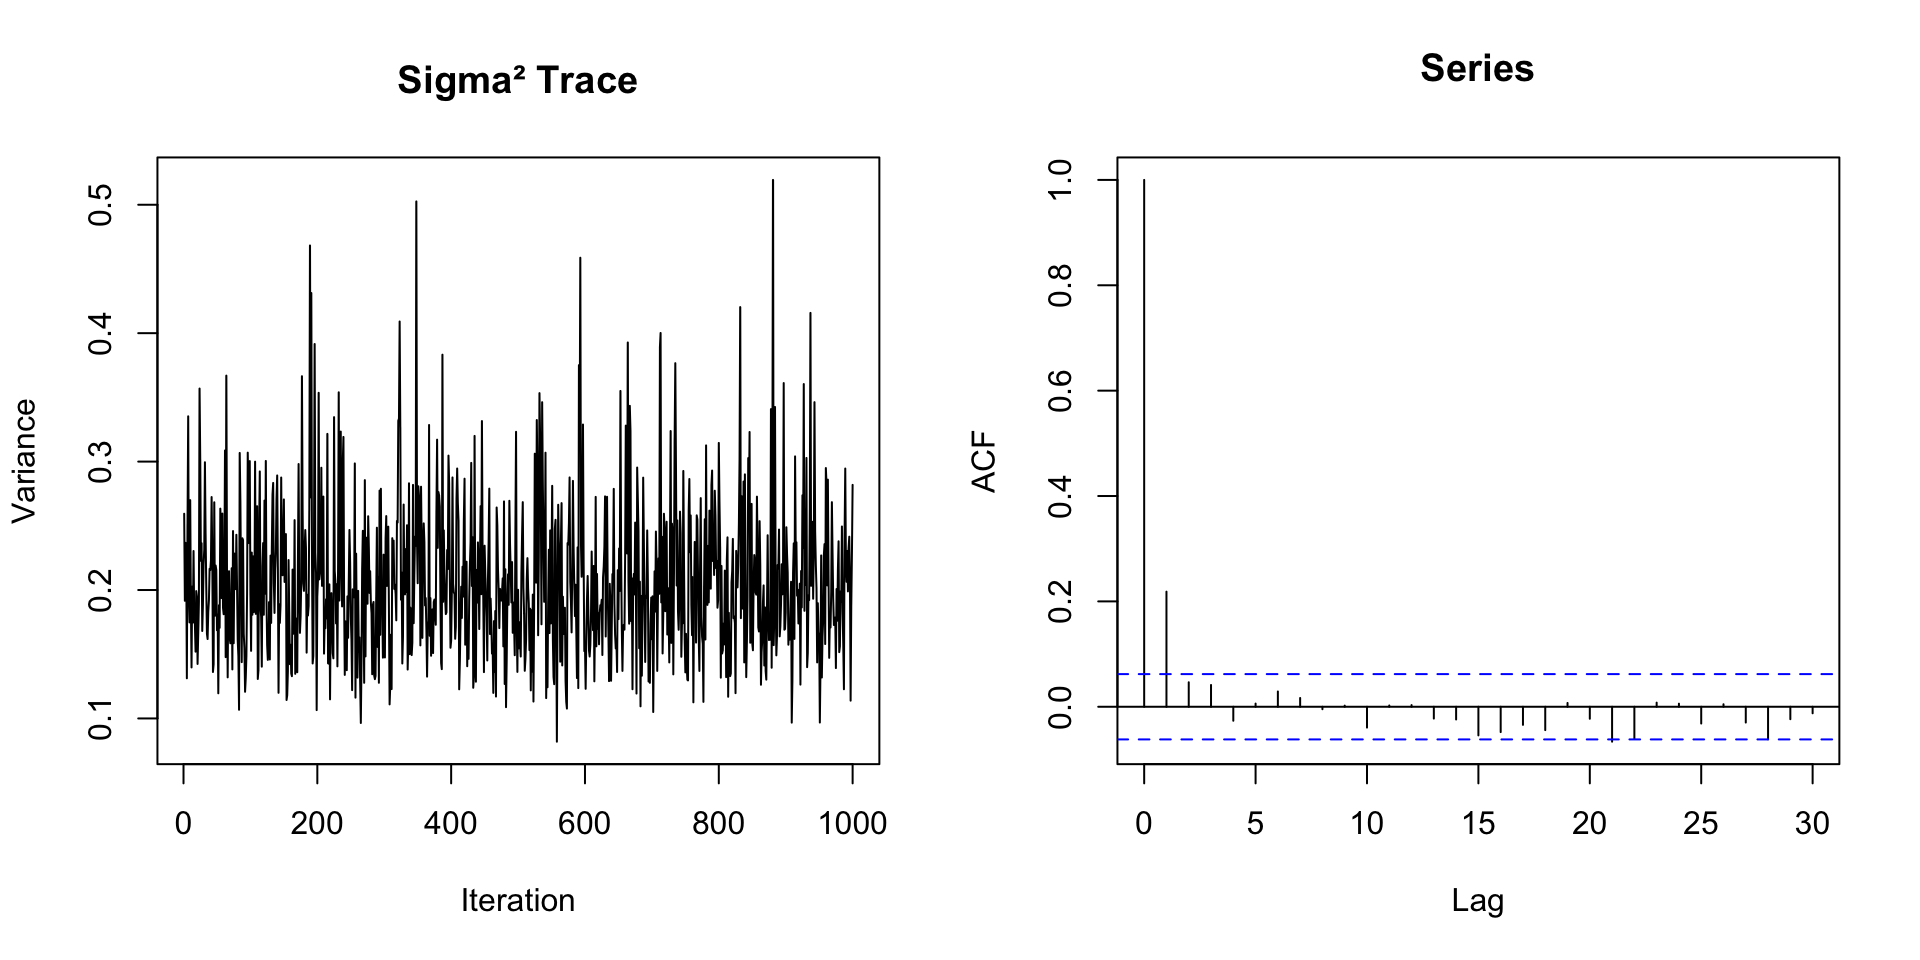
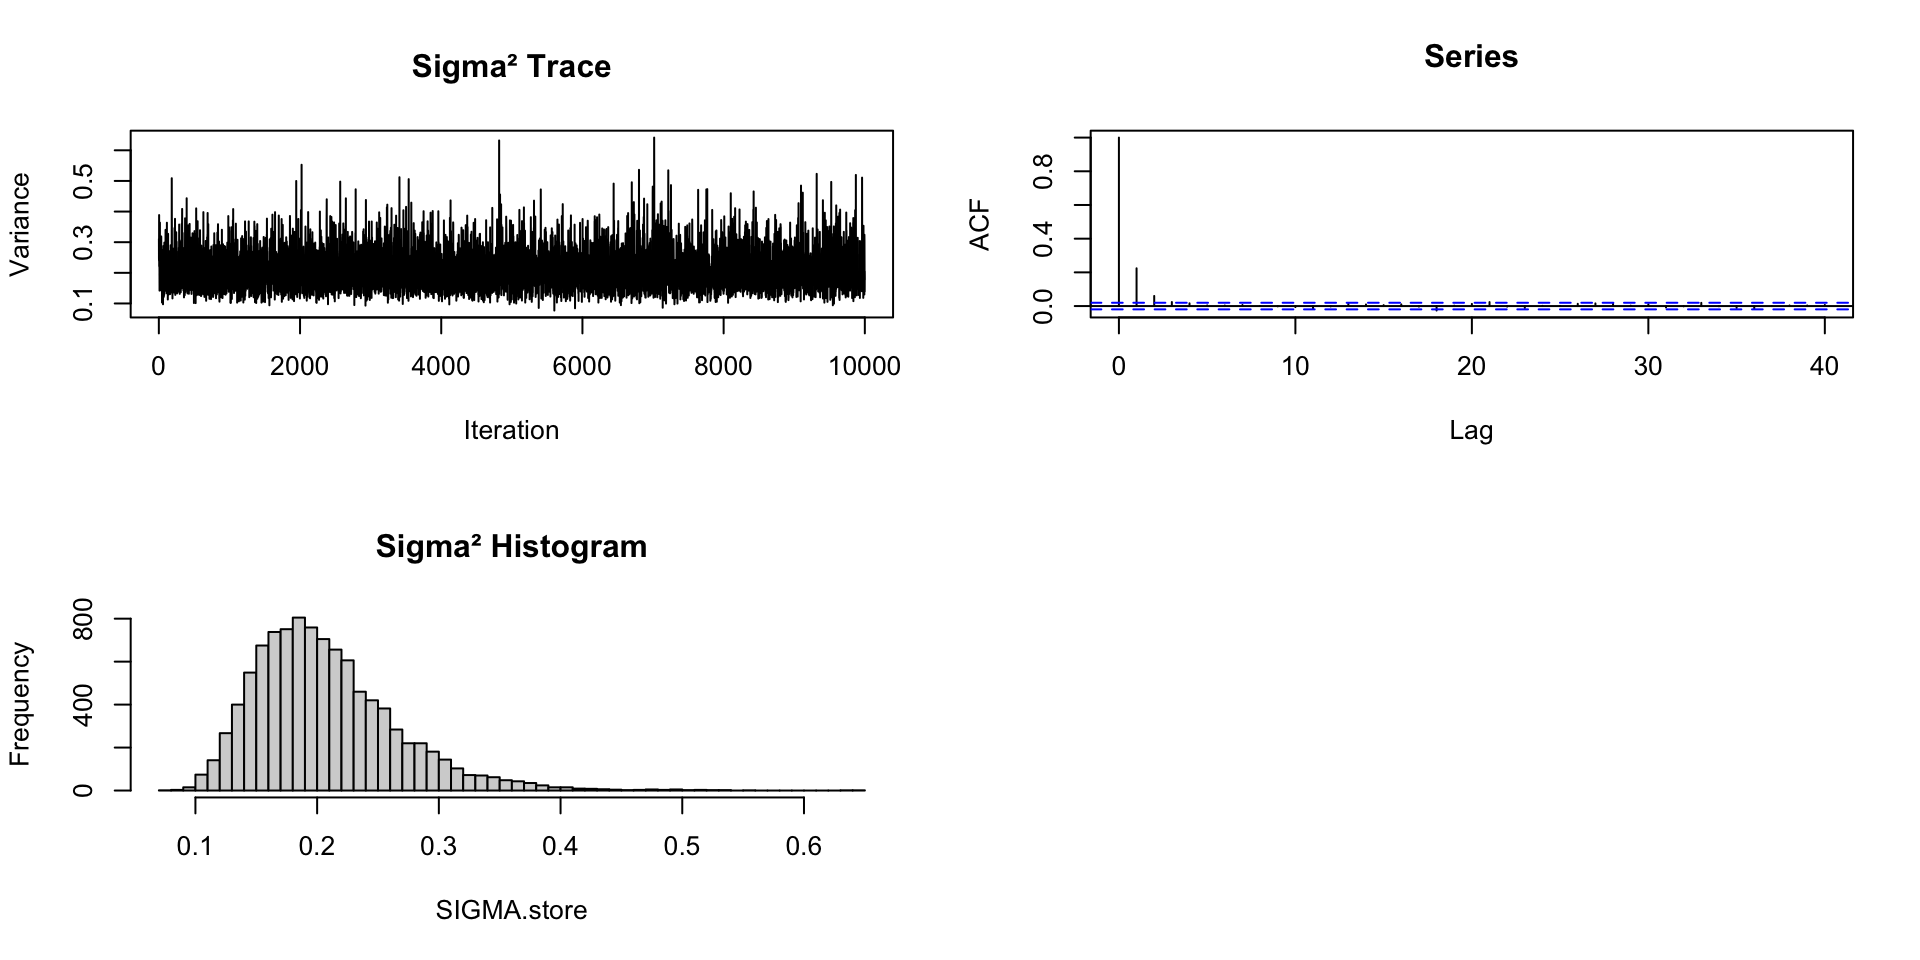
end term presentation update

diff --git a/EndTermPresentation.html b/EndTermPresentation.html
@@ -555,8 +555,8 @@ F-statistic: 22.27 on 8 and 29 DF,  p-value: 2.033e-10</code></pre>
 <h2>Preconditions</h2>
 <p>We simply took those from the original script:</p>
 <div class="cell">
-<div class="sourceCode cell-code" id="cb11"><pre class="sourceCode numberSource r number-lines code-with-copy"><code class="sourceCode r"><span id="cb11-1"><a href=""></a>nsave <span class="ot">&lt;-</span> <span class="dv">1000</span></span>
-<span id="cb11-2"><a href=""></a>nburn <span class="ot">&lt;-</span> <span class="dv">1000</span></span>
+<div class="sourceCode cell-code" id="cb11"><pre class="sourceCode numberSource r number-lines code-with-copy"><code class="sourceCode r"><span id="cb11-1"><a href=""></a>nsave <span class="ot">&lt;-</span> <span class="dv">10000</span></span>
+<span id="cb11-2"><a href=""></a>nburn <span class="ot">&lt;-</span> <span class="dv">2000</span></span>
 <span id="cb11-3"><a href=""></a>ntot  <span class="ot">&lt;-</span> nsave <span class="sc">+</span> nburn        <span class="co"># total Gibbs draws</span></span>
 <span id="cb11-4"><a href=""></a></span>
 <span id="cb11-5"><a href=""></a>tau0 <span class="ot">&lt;-</span> <span class="fl">0.01</span>                  <span class="co"># SSVS hyper-pars</span></span>
@@ -674,15 +674,15 @@ F-statistic: 22.27 on 8 and 29 DF,  p-value: 2.033e-10</code></pre>
 <div class="cell">
 <div class="cell-output cell-output-stdout">
 <pre><code>    Variable   PIP PostMean
-5 MalariaInc 1.000    0.827
-9      Urban 0.171   -0.142
-6    Density 0.160   -0.161
-2        GDP 0.105   -0.112
-4      Pop65 0.074    0.105
-8  TB_Deaths 0.042    0.045
-7    TB_Mort 0.037    0.009
-3     Health 0.033    0.005
-1  Intercept 0.029    0.001</code></pre>
+5 MalariaInc 1.000    0.824
+6    Density 0.206   -0.166
+9      Urban 0.172   -0.147
+2        GDP 0.107   -0.112
+4      Pop65 0.091    0.109
+8  TB_Deaths 0.044    0.043
+3     Health 0.043    0.008
+7    TB_Mort 0.043    0.011
+1  Intercept 0.037    0.000</code></pre>
 </div>
 </div>
 </section>
@@ -694,27 +694,27 @@ F-statistic: 22.27 on 8 and 29 DF,  p-value: 2.033e-10</code></pre>
 <h2>Summary Alpha</h2>
 <div class="cell">
 <div class="cell-output cell-output-stdout">
-<pre><code>   Intercept              GDP              Health              Pop65         
- Min.   :-0.185786   Min.   :-0.4050   Min.   :-0.217391   Min.   :-0.10783  
- 1st Qu.:-0.037034   1st Qu.:-0.1583   1st Qu.:-0.042756   1st Qu.: 0.05936  
- Median : 0.002013   Median :-0.1121   Median : 0.004108   Median : 0.10598  
- Mean   : 0.001464   Mean   :-0.1118   Mean   : 0.005295   Mean   : 0.10496  
- 3rd Qu.: 0.040423   3rd Qu.:-0.0624   3rd Qu.: 0.053921   3rd Qu.: 0.14839  
- Max.   : 0.173586   Max.   : 0.1505   Max.   : 0.228271   Max.   : 0.37525  
-   MalariaInc        Density            TB_Mort            TB_Deaths        
- Min.   :0.5527   Min.   :-0.45248   Min.   :-0.207055   Min.   :-0.174479  
- 1st Qu.:0.7749   1st Qu.:-0.20817   1st Qu.:-0.037702   1st Qu.: 0.003152  
- Median :0.8263   Median :-0.15914   Median : 0.007834   Median : 0.042247  
- Mean   :0.8268   Mean   :-0.16069   Mean   : 0.009035   Mean   : 0.044523  
- 3rd Qu.:0.8818   3rd Qu.:-0.10826   3rd Qu.: 0.055614   3rd Qu.: 0.086215  
- Max.   :1.0983   Max.   : 0.09524   Max.   : 0.214924   Max.   : 0.261957  
+<pre><code>   Intercept               GDP               Health              Pop65        
+ Min.   :-0.2228527   Min.   :-0.55448   Min.   :-0.290115   Min.   :-0.1504  
+ 1st Qu.:-0.0391020   1st Qu.:-0.16073   1st Qu.:-0.039970   1st Qu.: 0.0622  
+ Median : 0.0001859   Median :-0.10903   Median : 0.007789   Median : 0.1079  
+ Mean   : 0.0001285   Mean   :-0.11234   Mean   : 0.008054   Mean   : 0.1088  
+ 3rd Qu.: 0.0390459   3rd Qu.:-0.05937   3rd Qu.: 0.056455   3rd Qu.: 0.1541  
+ Max.   : 0.2401192   Max.   : 0.17068   Max.   : 0.368216   Max.   : 0.4184  
+   MalariaInc        Density           TB_Mort           TB_Deaths        
+ Min.   :0.5202   Min.   :-0.5608   Min.   :-0.23685   Min.   :-0.205681  
+ 1st Qu.:0.7715   1st Qu.:-0.2147   1st Qu.:-0.03404   1st Qu.: 0.001402  
+ Median :0.8231   Median :-0.1605   Median : 0.01104   Median : 0.042171  
+ Mean   :0.8237   Mean   :-0.1659   Mean   : 0.01123   Mean   : 0.042603  
+ 3rd Qu.:0.8773   3rd Qu.:-0.1095   3rd Qu.: 0.05705   3rd Qu.: 0.083865  
+ Max.   :1.1117   Max.   : 0.1860   Max.   : 0.26798   Max.   : 0.353189  
      Urban         
- Min.   :-0.43749  
- 1st Qu.:-0.19470  
- Median :-0.13849  
- Mean   :-0.14171  
- 3rd Qu.:-0.08411  
- Max.   : 0.11941  </code></pre>
+ Min.   :-0.56686  
+ 1st Qu.:-0.19647  
+ Median :-0.14123  
+ Mean   :-0.14681  
+ 3rd Qu.:-0.08898  
+ Max.   : 0.17247  </code></pre>
 </div>
 </div>
 </section>
@@ -722,13 +722,13 @@ F-statistic: 22.27 on 8 and 29 DF,  p-value: 2.033e-10</code></pre>
 <h2>Summary Sigma</h2>
 <div class="cell">
 <div class="cell-output cell-output-stdout">
-<pre><code>     Sigma       
- Min.   :0.0819  
- 1st Qu.:0.1658  
- Median :0.1968  
- Mean   :0.2064  
- 3rd Qu.:0.2361  
- Max.   :0.5193  </code></pre>
+<pre><code>     Sigma        
+ Min.   :0.07692  
+ 1st Qu.:0.16515  
+ Median :0.19752  
+ Mean   :0.20675  
+ 3rd Qu.:0.23760  
+ Max.   :0.64148  </code></pre>
 </div>
 </div>
 </section>
@@ -736,20 +736,27 @@ F-statistic: 22.27 on 8 and 29 DF,  p-value: 2.033e-10</code></pre>
 <h2>Summary Gamma</h2>
 <div class="cell">
 <div class="cell-output cell-output-stdout">
-<pre><code>   Intercept          GDP            Health          Pop65         MalariaInc
- Min.   :0.000   Min.   :0.000   Min.   :0.000   Min.   :0.000   Min.   :1   
- 1st Qu.:0.000   1st Qu.:0.000   1st Qu.:0.000   1st Qu.:0.000   1st Qu.:1   
- Median :0.000   Median :0.000   Median :0.000   Median :0.000   Median :1   
- Mean   :0.029   Mean   :0.105   Mean   :0.033   Mean   :0.074   Mean   :1   
- 3rd Qu.:0.000   3rd Qu.:0.000   3rd Qu.:0.000   3rd Qu.:0.000   3rd Qu.:1   
- Max.   :1.000   Max.   :1.000   Max.   :1.000   Max.   :1.000   Max.   :1   
-    Density        TB_Mort        TB_Deaths         Urban      
- Min.   :0.00   Min.   :0.000   Min.   :0.000   Min.   :0.000  
- 1st Qu.:0.00   1st Qu.:0.000   1st Qu.:0.000   1st Qu.:0.000  
- Median :0.00   Median :0.000   Median :0.000   Median :0.000  
- Mean   :0.16   Mean   :0.037   Mean   :0.042   Mean   :0.171  
- 3rd Qu.:0.00   3rd Qu.:0.000   3rd Qu.:0.000   3rd Qu.:0.000  
- Max.   :1.00   Max.   :1.000   Max.   :1.000   Max.   :1.000  </code></pre>
+<pre><code>   Intercept           GDP             Health           Pop65      
+ Min.   :0.0000   Min.   :0.0000   Min.   :0.0000   Min.   :0.000  
+ 1st Qu.:0.0000   1st Qu.:0.0000   1st Qu.:0.0000   1st Qu.:0.000  
+ Median :0.0000   Median :0.0000   Median :0.0000   Median :0.000  
+ Mean   :0.0366   Mean   :0.1067   Mean   :0.0428   Mean   :0.091  
+ 3rd Qu.:0.0000   3rd Qu.:0.0000   3rd Qu.:0.0000   3rd Qu.:0.000  
+ Max.   :1.0000   Max.   :1.0000   Max.   :1.0000   Max.   :1.000  
+   MalariaInc    Density          TB_Mort         TB_Deaths     
+ Min.   :1    Min.   :0.0000   Min.   :0.0000   Min.   :0.0000  
+ 1st Qu.:1    1st Qu.:0.0000   1st Qu.:0.0000   1st Qu.:0.0000  
+ Median :1    Median :0.0000   Median :0.0000   Median :0.0000  
+ Mean   :1    Mean   :0.2061   Mean   :0.0427   Mean   :0.0435  
+ 3rd Qu.:1    3rd Qu.:0.0000   3rd Qu.:0.0000   3rd Qu.:0.0000  
+ Max.   :1    Max.   :1.0000   Max.   :1.0000   Max.   :1.0000  
+     Urban       
+ Min.   :0.0000  
+ 1st Qu.:0.0000  
+ Median :0.0000  
+ Mean   :0.1722  
+ 3rd Qu.:0.0000  
+ Max.   :1.0000  </code></pre>
 </div>
 </div>
 </section>
@@ -802,22 +809,22 @@ LOO fold 38 of 38 </code></pre>
 </div>
 <div class="cell-output cell-output-stdout">
 <pre><code>                    Country       True Predicted       Error          MSE
-1                    Angola  46.794897  42.81409  -3.9808055   15.8468120
-2                     Benin  88.744997 102.59340  13.8484024  191.7782492
-3              Burkina Faso 146.460451 131.49098 -14.9694709  224.0850593
-4                   Burundi  50.706239  38.60944 -12.0967963  146.3324797
-5                  Cameroon  55.371605  55.64667   0.2750689    0.0756629
-6  Central African Republic 111.271410  95.45338 -15.8180295  250.2100569
-7                      Chad  93.260925  69.91144 -23.3494814  545.1982830
-8                   Comoros   8.037874 -25.82920 -33.8670746 1146.9787402
-9                     Congo  40.665282  41.40845   0.7431717    0.5523042
-10            Cote d'Ivoire  68.569683  74.91913   6.3494441   40.3154404</code></pre>
+1                    Angola  46.794897  42.63434  -4.1605555   17.3102220
+2                     Benin  88.744997 102.90025  14.1552523  200.3711675
+3              Burkina Faso 146.460451 130.79897 -15.6614830  245.2820501
+4                   Burundi  50.706239  38.41268 -12.2935604  151.1316274
+5                  Cameroon  55.371605  55.78518   0.4135761    0.1710452
+6  Central African Republic 111.271410  96.75063 -14.5207766  210.8529527
+7                      Chad  93.260925  70.12281 -23.1381108  535.3721717
+8                   Comoros   8.037874 -25.86979 -33.9076645 1149.7297133
+9                     Congo  40.665282  41.84449   1.1792105    1.3905375
+10            Cote d'Ivoire  68.569683  74.42511   5.8554265   34.2860190</code></pre>
 </div>
 <div class="cell-output cell-output-stdout">
-<pre><code>RMSE:  23.05015 </code></pre>
+<pre><code>RMSE:  23.02725 </code></pre>
 </div>
 <div class="cell-output cell-output-stdout">
-<pre><code>[1] 0.092 0.113 0.101 0.111 0.701 0.130 0.093 0.098 0.127</code></pre>
+<pre><code>[1] 0.092 0.113 0.101 0.111 0.699 0.129 0.094 0.097 0.127</code></pre>
 </div>
 
 </div>
